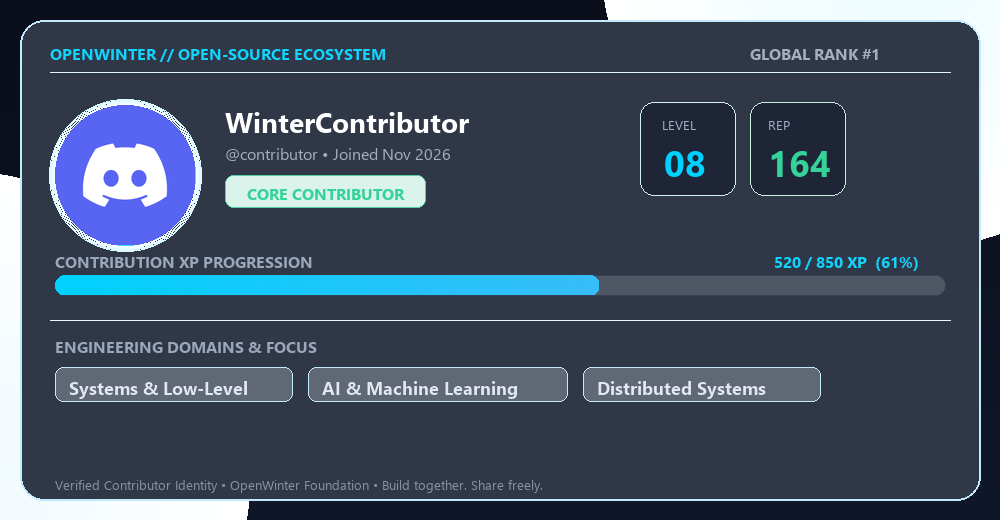
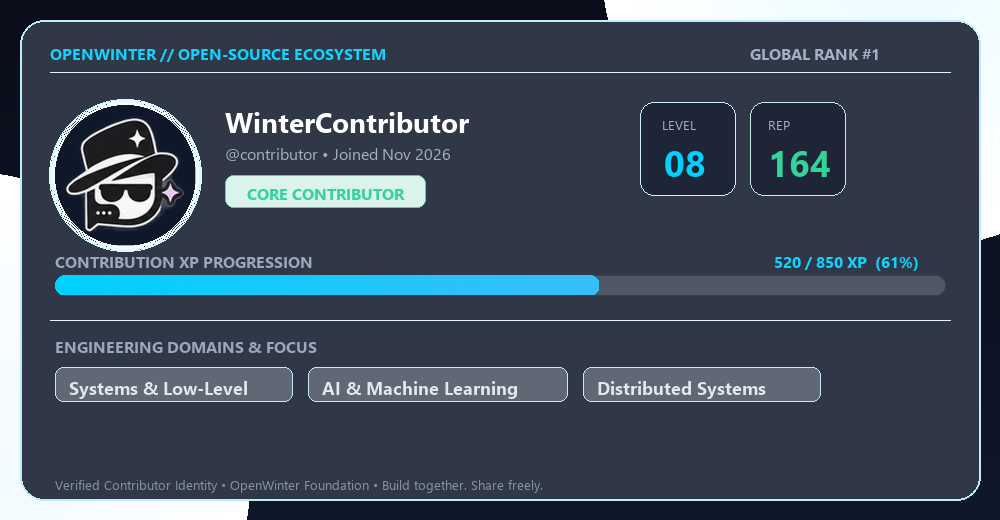
feat(branding): add official SirDeep mascot emoji pack and integrate into README and card

Changed region(s): [[0.031, 0.1846, 0.217, 0.4923]]

diff --git a/README.md b/README.md
@@ -33,12 +33,26 @@ Unlike bloated, multi-purpose bots loaded with invasive analytics, SirDeep opera
 
 | Subsystem | Capabilities | Technology Stack |
 | :--- | :--- | :--- |
-| **🛡 Audit Sentinel** | Captures kicks, bans, timeouts, and channel/role lifecycle updates into `#audit-logs`. | Discord Audit Gateway v10 |
-| **🚨 Anti-Nuke Shield** | Intercepts rapid channel/role deletions and strips administrative roles from flagged actors. | Sliding Window Velocity Limiter |
-| **🧠 AI Companion** | High-signal pair programming, systems debugging, and sliding-window context memory. | Local Ollama GPU / OpenRouter |
-| **📻 24/7 Deep Radio** | Continuous audio stream with automatic gateway reconnects on network drops. | Hardware-Accelerated FFmpeg |
-| **🏆 Contributor Cards** | High-DPI (1000×520) glassmorphic cards with anti-aliased avatars and tier progression. | Pillow (PIL) Dynamic Compositor |
-| **💬 Tech Dilemmas** | Automated scheduled engineering debates with automatic thread indexing. | Asyncio Event Scheduler |
+| <img src="assets/emojis/sirdeep_verified.png" width="22" valign="middle" /> **Audit Sentinel** | Captures kicks, bans, timeouts, and channel/role lifecycle updates into `#audit-logs`. | Discord Audit Gateway v10 |
+| <img src="assets/emojis/sirdeep_settings.png" width="22" valign="middle" /> **Anti-Nuke Shield** | Intercepts rapid channel/role deletions and strips administrative roles from flagged actors. | Sliding Window Velocity Limiter |
+| <img src="assets/emojis/sirdeep_coding.png" width="22" valign="middle" /> **AI Companion** | High-signal pair programming, systems debugging, and sliding-window context memory. | Local Ollama GPU / OpenRouter |
+| <img src="assets/emojis/sirdeep_voice.png" width="22" valign="middle" /> **24/7 Deep Radio** | Continuous audio stream with automatic gateway reconnects on network drops. | Hardware-Accelerated FFmpeg |
+| <img src="assets/emojis/sirdeep_goated.png" width="22" valign="middle" /> **Contributor Cards** | High-DPI (1000×520) glassmorphic cards with anti-aliased avatars and tier progression. | Pillow (PIL) Dynamic Compositor |
+| <img src="assets/emojis/sirdeep_idea.png" width="22" valign="middle" /> **Tech Dilemmas** | Automated scheduled engineering debates with automatic thread indexing. | Asyncio Event Scheduler |
+
+---
+
+## 🎭 Official Mascot & Emoji Pack
+
+SirDeep includes a dedicated set of custom developer emojis designed for modern Discord guilds:
+
+<div align="center">
+
+| `:sirdeep_cool:` | `:sirdeep_coding:` | `:sirdeep_idea:` | `:sirdeep_voice:` | `:sirdeep_verified:` | `:sirdeep_coffee:` | `:sirdeep_hype:` | `:sirdeep_goated:` |
+| :---: | :---: | :---: | :---: | :---: | :---: | :---: | :---: |
+| <img src="assets/emojis/sirdeep_cool.png" width="48" height="48" /> | <img src="assets/emojis/sirdeep_coding.png" width="48" height="48" /> | <img src="assets/emojis/sirdeep_idea.png" width="48" height="48" /> | <img src="assets/emojis/sirdeep_voice.png" width="48" height="48" /> | <img src="assets/emojis/sirdeep_verified.png" width="48" height="48" /> | <img src="assets/emojis/sirdeep_coffee.png" width="48" height="48" /> | <img src="assets/emojis/sirdeep_hype.png" width="48" height="48" /> | <img src="assets/emojis/sirdeep_goated.png" width="48" height="48" /> |
+
+</div>
 
 ---
 
@@ -187,6 +201,7 @@ python main.py
 sirdeep/
 ├── assets/
 │   ├── branding/              # High-DPI banner and contributor card assets
+│   ├── emojis/                # Official SirDeep developer mascot emoji pack
 │   └── fonts/                 # Bundled TrueType typography
 ├── config/
 │   ├── config.example.yaml    # Server channels, thresholds, and station configs
